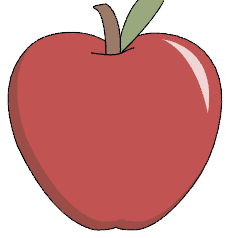
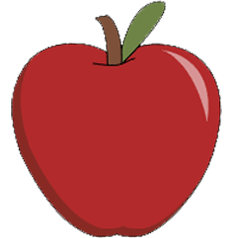
Fixed basket errors

diff --git a/src/main/java/edu/pacific/comp55/starter/Basket.java b/src/main/java/edu/pacific/comp55/starter/Basket.java
@@ -144,7 +144,7 @@ public class Basket extends GraphicsPane implements ActionListener, KeyListener 
 
 	public GImage makeApple() {
 		GImage temp = new GImage("apple.png", appleGen.nextInt(WINDOW_WIDTH), 180);
-		temp.scale(0.25);
+		temp.scale(0.2);
 		return temp;
 	}
 
